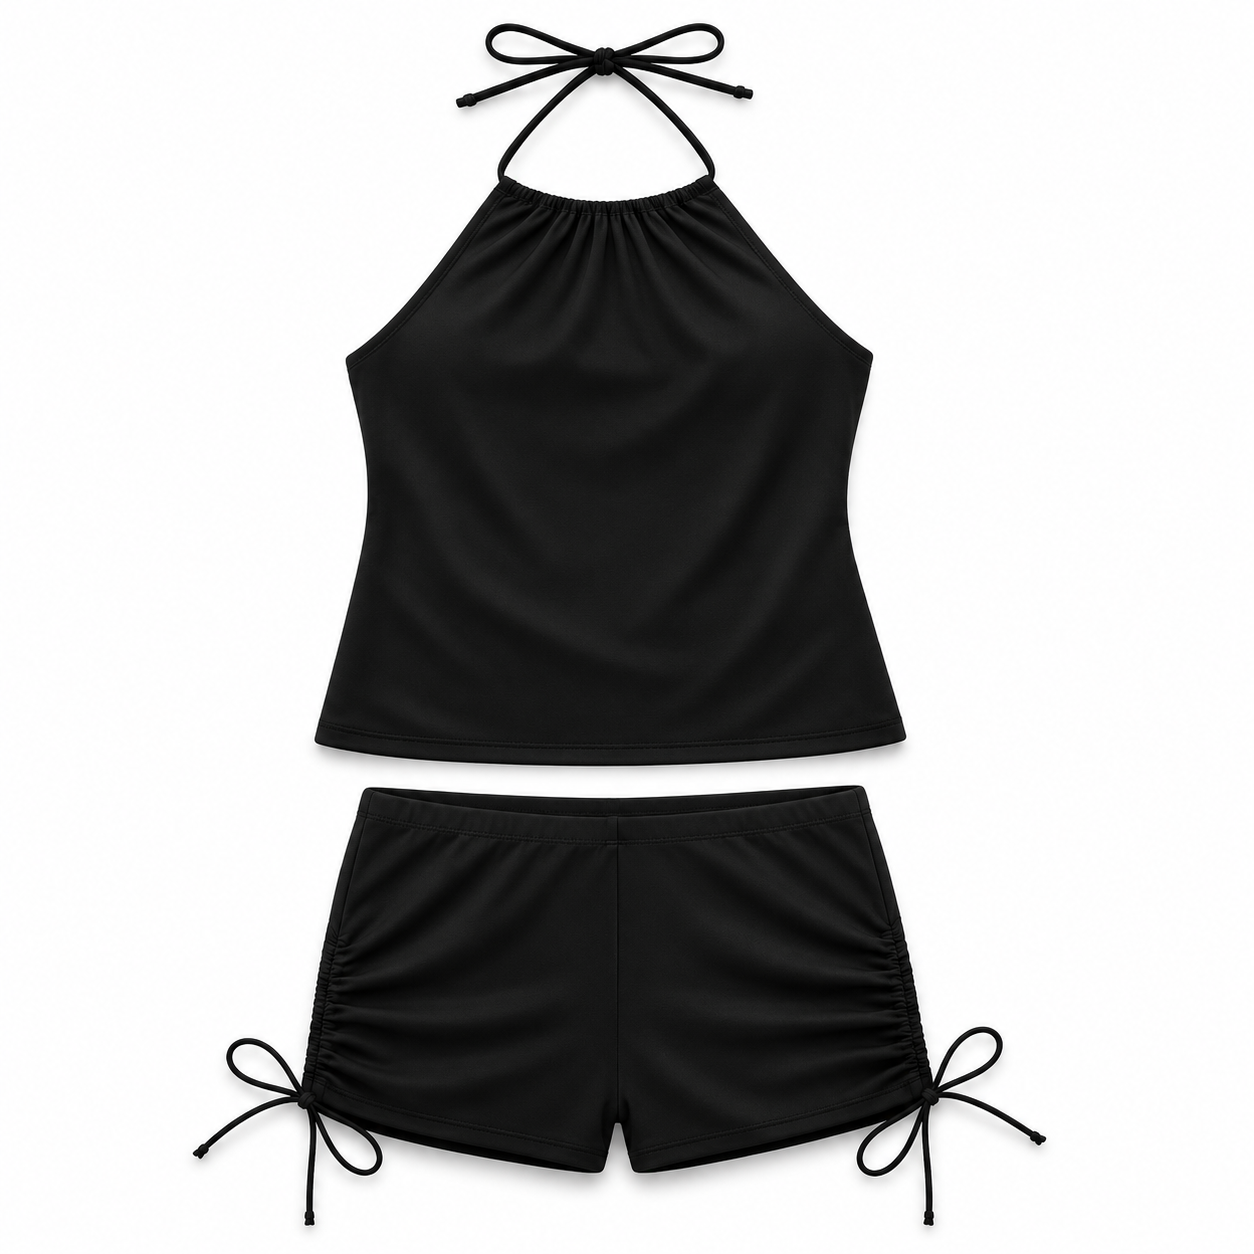
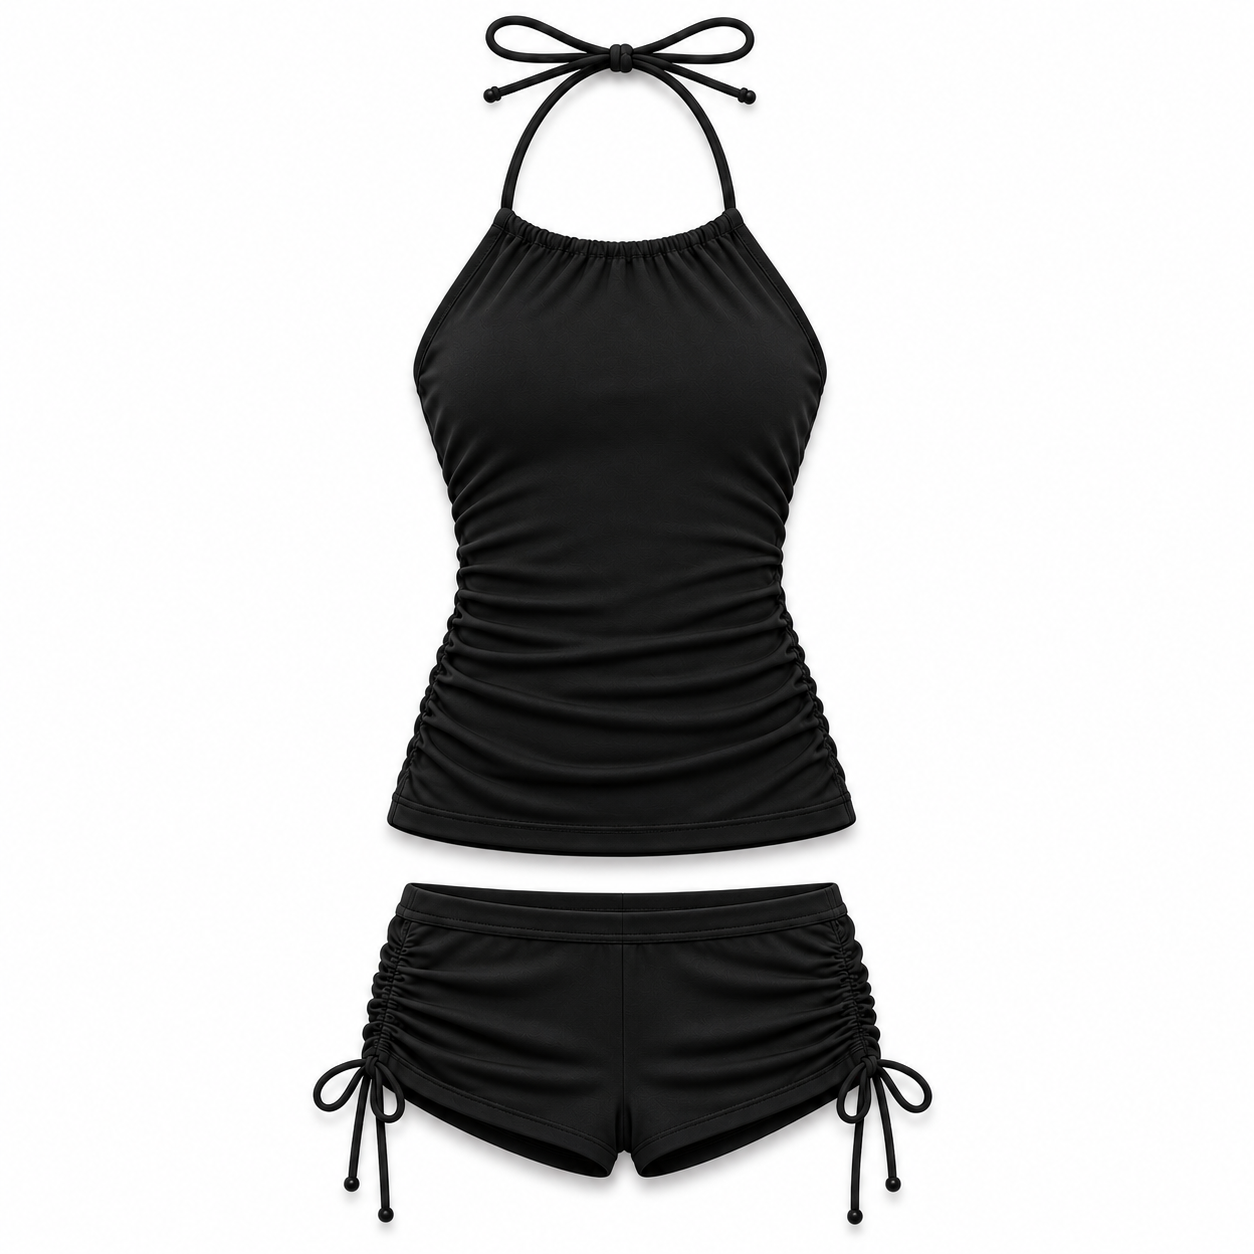
Update tankini print area mask

diff --git a/apps/backend/src/api/store/vibeya/ai/generate/route.ts b/apps/backend/src/api/store/vibeya/ai/generate/route.ts
@@ -474,8 +474,8 @@ export const POST = async (req: MedusaRequest, res: MedusaResponse) => {
     ? [
         "Create exactly ONE photorealistic square e-commerce product image on a pure white (#FFFFFF) background. Show the exact two-piece women's tankini from the CLEAN GARMENT REFERENCE: one black halter-neck swim top above one separate pair of side-tie shorts below it. Both pieces are front-facing, fully visible, neatly arranged with the top clearly separated above the shorts. Preserve the reference's exact silhouette, neckline, neck ties, top length and hem, shorts rise and leg cut, side ties, seams, fabric texture, relative scale, alignment, and gap. Give the fabric gentle natural 3D volume and soft realistic folds with subtle studio shading so the pieces do not look collapsed or paper-flat; keep them only lightly shaped, never inflated, stuffed, stiff, or exaggerated. Do not rearrange, overlap, crop, simplify, or redesign either garment. Never turn it into a one-piece or another swimsuit style. No person, mannequin, hanger, room, pool, props, decoration, alternate views, collage, labels, or extra objects.",
         `Image ${references.length + 1} is the CLEAN GARMENT REFERENCE and is the sole authority for the swimsuit pattern, construction, silhouette, two-piece arrangement, proportions, fabric, and studio presentation. It has no print-area marker: do not infer or invent the print location from it. Reproduce its garment exactly and render the selected ${productConfig.colorAliases[colorKey]} fabric color.`,
-        `Image ${references.length + 2} is the PRINT-LOCATION GUIDE ONLY. It uses the exact same clean garment image and canvas alignment as image ${references.length + 1}; its white square is drawn directly over the approved print area. Match that square pixel-for-pixel. On the 1254 × 1254 canvas, the allowed print area is x=438–780 and y=338–679 (about 27% of canvas width and height). Do not estimate or transfer the location from another garment layout.`,
-        "PRINT AREA LOCK — TOP FRONT PANEL ONLY: print one complete, uninterrupted artwork inside the white square shown on the guide, on the front fabric of the top. Keep every part of the design inside x=438–780 and y=338–679 of the 1254 × 1254 image. Do not print on the shorts, neck ties, side ties, neckline, edges, seams, or background. The white square is only a location marker: replace its full area with continuous artwork and never leave it as a white patch, backing, border, panel, gap, dividing line, repeated fragment, or cutoff. Keep the print-zone bounds fixed. If the full artwork does not fit, uniformly scale the complete composition down and place it within these bounds; never crop, stretch, or allow any part outside them.",
+        `Image ${references.length + 2} is the PRINT-LOCATION GUIDE ONLY. It uses the exact same clean garment image and canvas alignment as image ${references.length + 1}; its white rectangle is drawn directly over the approved print area. Match that rectangle pixel-for-pixel. On the 1254 × 1254 canvas, the allowed print area is x=493–746 and y=339–736. Do not estimate or transfer the location from another garment layout.`,
+        "PRINT AREA LOCK — TOP FRONT PANEL ONLY: print one complete, uninterrupted artwork inside the white rectangle shown on the guide, on the front fabric of the top. Keep every part of the design inside x=493–746 and y=339–736 of the 1254 × 1254 image. Do not print on the shorts, neck ties, side ties, neckline, edges, seams, or background. The white rectangle is only a location marker: replace its full area with continuous artwork and never leave it as a white patch, backing, border, panel, gap, dividing line, repeated fragment, or cutoff. Keep the print-zone bounds fixed. If the full artwork does not fit, uniformly scale the complete composition down and place it within these bounds; never crop, stretch, or allow any part outside them.",
         hasUploadedArtwork
           ? `${artworkReferenceLabel} Use the uploaded artwork as the customer's swim-top print, preserving its recognizable content and following the written brief.`
           : "Create original artwork directly from the customer's written instructions.",
